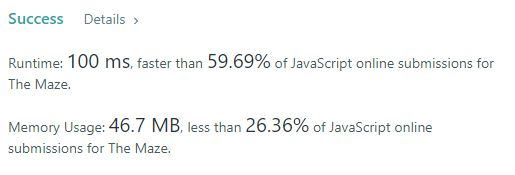
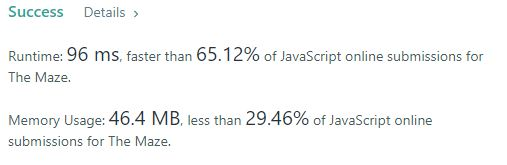
Optimization for 490

diff --git a/490_TheMaze/490.js b/490_TheMaze/490.js
@@ -150,6 +150,10 @@ let hasPath1 = (maze, start, destination) => {
 };
 
 
+
+
+//*****Solution 2****
+
 /**
  * @param {number[][]} maze
  * @param {number[]} start
@@ -159,6 +163,8 @@ let hasPath1 = (maze, start, destination) => {
     //More optimized second solution by doing the following:
     //  - It can just use the current cell instead of creating a tree
     //  - The check for the ability to move is not required, we can just simple call getNewX
+    //  - Allocation for a unique intermediate new cell value is not required
+    //  - No need to check for the key before generating a new position cell, we can just call move() blindly
     //This still contains the visited map idea from the first solution to act as an end state
 let hasPath = (maze, start, destination) => {
 
@@ -214,6 +220,7 @@ let hasPath = (maze, start, destination) => {
             return [k, cell[1]];
         };
 
+        //creates a string key to mark a cell as previously visited
         let createKey = (cell) => {
             return cell[0].toString() + cell[1].toString();
         };
@@ -225,7 +232,7 @@ let hasPath = (maze, start, destination) => {
         //recursive movement function which builds the tree
         let move = function(cell) {
 
-            if (pathExists) {
+            if (pathExists || visitedMap.hasOwnProperty(createKey(cell))) {
                 return;
             }
 
@@ -235,25 +242,10 @@ let hasPath = (maze, start, destination) => {
                 pathExists = true;
             }
 
-            let nC = getNewLeft(cell);
-            if (!visitedMap.hasOwnProperty(createKey(nC))) {
-                move(nC);
-            }
-
-            nC = getNewRight(cell);
-            if (!visitedMap.hasOwnProperty(createKey(nC))) {
-                move(nC);
-            }
-
-            nC = getNewUp(cell);
-            if (!visitedMap.hasOwnProperty(createKey(nC))) {
-                move(nC);
-            }
-
-            nC = getNewDown(cell);
-            if (!visitedMap.hasOwnProperty(createKey(nC))) {
-                move(nC);
-            }
+            move(getNewLeft(cell));
+            move(getNewRight(cell));
+            move(getNewUp(cell));
+            move(getNewDown(cell));
         };
         move(start);
         return pathExists;
